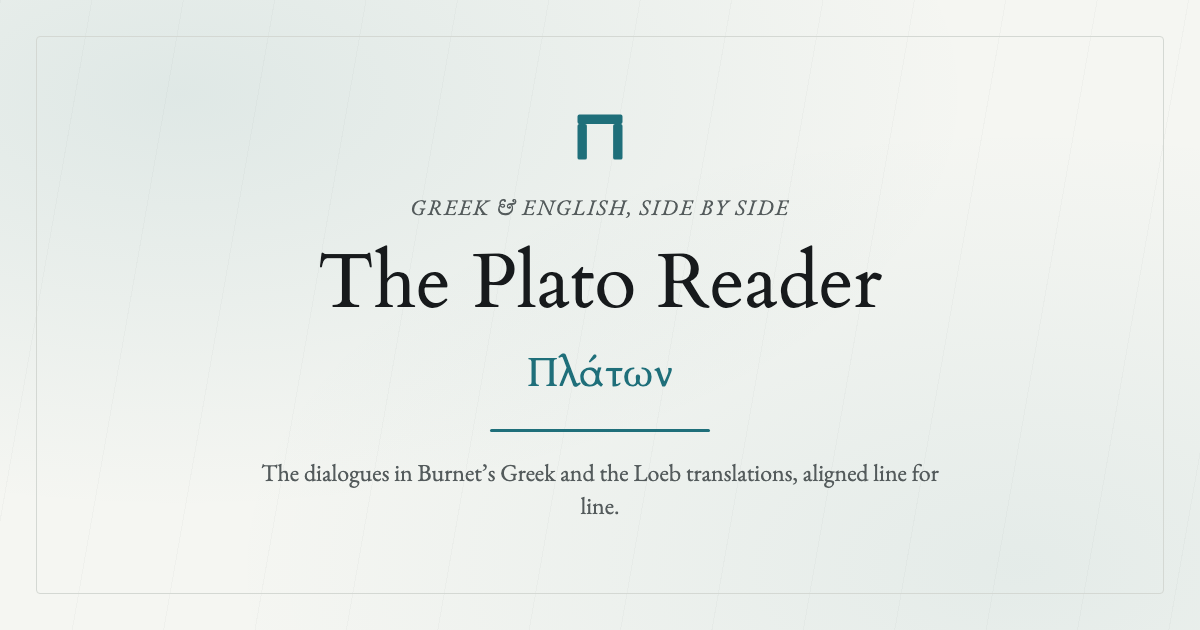
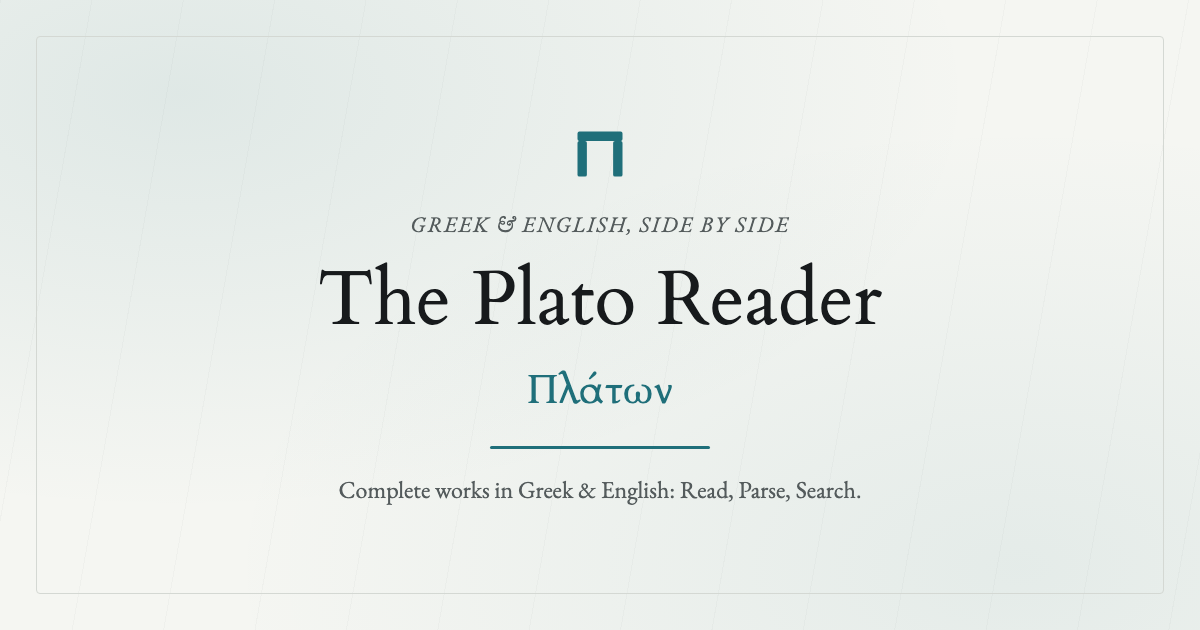
review fixes: brand-line consistency, credit-only attribution, OG copy, fallback hex
Four items from an adversarial review of the PR diff (Opus 4.8), two
revised by John before landing:

1. Home-page phrasing consistency — resolved in John's direction: the
   titles keep his brand line "Complete Works in Greek & English";
   the swept description and JSON-LD ItemList now align to it ("Read
   the complete works of Plato", "The Complete Works of Plato").
2. Attribution goes credit-only (John's call, replacing the reviewer's
   suggested Shorey carve-out): all public-domain/US-copyright/
   publication-date statements removed rather than corrected. The page
   now purely credits — Burnet OCT via TLG (licensed build tool, not
   redistributed), the four Loeb translators with years, Perseus
   canonical-greekLit with its CC BY-SA 4.0 TEI-encoding attribution
   (stays: it's a licence requirement, not legal analysis), and the
   INVENTORY.md / PATCHES.md links. PD badges dropped with the claims.
3. og-default.png tagline was inaccurate ("aligned line for line" —
   we align by speaker turn, cite by section); regenerated with John's
   approved copy, verbatim: "Complete works in Greek & English: Read,
   Parse, Search."
4. global.css:817,825 dead terracotta fallbacks var(--accent, #8a5a2b)
   -> #1f6f7a.

Verified: shared tests 151/151, svelte-check 0 errors, app build green,
dist grep confirms zero public-domain statements on attribution and the
consistent home titles.

Claude-Session: https://claude.ai/code/session_01WmsfTn9wiFwwXbFYpkfo4d

diff --git a/shared/styles/global.css b/shared/styles/global.css
@@ -814,7 +814,7 @@ body {
 .chapter-head::after {
   content: "";
   flex: 1;
-  border-top: 2px solid var(--accent, #8a5a2b);
+  border-top: 2px solid var(--accent, #1f6f7a);
   opacity: 0.35;
 }
 .chapter-label {
@@ -822,7 +822,7 @@ body {
   font-size: 0.95rem;
   font-weight: 700;
   letter-spacing: .04em;
-  color: var(--accent, #8a5a2b);
+  color: var(--accent, #1f6f7a);
   text-transform: uppercase;
 }
 .chapter-bekker {